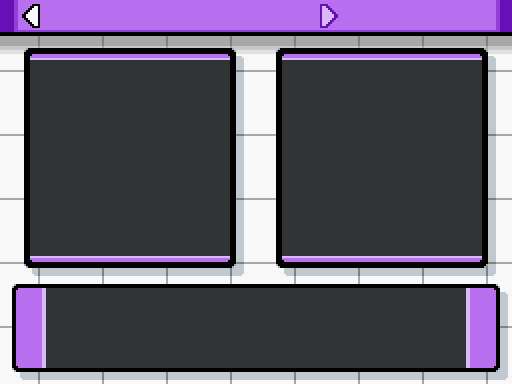
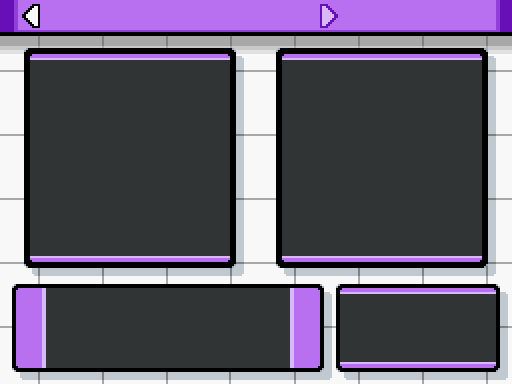
Can toggle viewing shinies on form page in masterdex

Changed region(s): [[0.5625, 0.7188, 0.9688, 1.0], [0.4375, 0.9688, 0.4688, 1.0]]

diff --git a/Plugins/Tectonic MasterDex/PokeDex Entry/PokemonPokedexInfo_Scene.rb b/Plugins/Tectonic MasterDex/PokeDex Entry/PokemonPokedexInfo_Scene.rb
@@ -98,6 +98,7 @@ class PokemonPokedexInfo_Scene
 
         @scroll = -1
         @horizontalScroll = 0
+        @showShinyForms = $PokemonGlobal.dex_forms_shows_shinies || false
         @title = "Undefined"
         pbSetSystemFont(@sprites["overlay"].bitmap)
         pbUpdateDummyPokemon
@@ -125,18 +126,13 @@ class PokemonPokedexInfo_Scene
         species_data = GameData::Species.get_species_form(@species, @form)
         @title = species_data.form_name ? "#{species_data.name} (#{species_data.form_name})" : species_data.name
         @sprites["infosprite"].setSpeciesBitmap(@species, @gender, @form)
-        forceShiny = debugControl
-        @sprites["formfront"].setSpeciesBitmap(@species, @gender, @form, forceShiny) if @sprites["formfront"]
+        @sprites["formfront"].setSpeciesBitmap(@species, @gender, @form, @showShinyForms) if @sprites["formfront"]
         if @sprites["formback"]
-            if forceShiny
-                @sprites["formback"].setSpeciesBitmapHueShifted(@species, @gender, @form, forceShiny)
-            else
-                @sprites["formback"].setSpeciesBitmap(@species, @gender, @form, false, false, true)
-                @sprites["formback"].y = 256
-                @sprites["formback"].y += species_data.back_sprite_y * 2
-            end
+            @sprites["formback"].setSpeciesBitmap(@species, @gender, @form, @showShinyForms, false, true)
+            @sprites["formback"].y = 256
+            @sprites["formback"].y += species_data.back_sprite_y * 2
         end
-        @sprites["formicon"].pbSetParams(@species, @gender, @form) if @sprites["formicon"]
+        @sprites["formicon"].pbSetParams(@species, @gender, @form, @showShinyForms) if @sprites["formicon"]
     end
 
     def pbGetAvailableForms
@@ -205,8 +201,7 @@ sp.form) && !Settings::DEX_SHOWS_ALL_FORMS
         xPos = 240
         # shift x position so that double digit page number does not overlap with the right facing arrow
         xPos -= 14 if @page >= 10
-        drawFormattedTextEx(overlay, xPos, 2, Graphics.width, "<outln2>[#{page}/#{pageTitles.length - 1}]</outln2>", base,
-  shadow, 18)
+        drawFormattedTextEx(overlay, xPos, 2, Graphics.width, "<outln2>[#{page}/#{pageTitles.length - 1}]</outln2>", base, shadow, 18)
         # Draw species name on top right	
         speciesName = GameData::Species.get(@species).name
 		speciesName = "#{speciesName} #{@form + 1}" if @multiple_forms
@@ -1074,10 +1069,18 @@ sp.form) && !Settings::DEX_SHOWS_ALL_FORMS
                 break
             end
         end
+        shinyFormTextLeftOffset = 160
         textpos = [
-            [GameData::Species.get(@species).name, Graphics.width / 2, Graphics.height - 94, 2, base, shadow],
-            [formname, Graphics.width / 2, Graphics.height - 62, 2, base, shadow],
+            [GameData::Species.get(@species).name, Graphics.width / 2 - 68, Graphics.height - 94, 2, base, shadow],
+            [formname, Graphics.width / 2 - 68, Graphics.height - 62, 2, base, shadow],
         ]
+        if @showShinyForms
+            textpos.push([_INTL("SPECIAL/D to"), Graphics.width - shinyFormTextLeftOffset, Graphics.height - 94, 0, base, shadow])
+            textpos.push([_INTL("hide shinies"), Graphics.width - shinyFormTextLeftOffset, Graphics.height - 62, 0, base, shadow])
+        else
+            textpos.push([_INTL("SPECIAL/D to"), Graphics.width - shinyFormTextLeftOffset, Graphics.height - 94, 0, base, shadow])
+            textpos.push([_INTL("show shinies"), Graphics.width - shinyFormTextLeftOffset, Graphics.height - 62, 0, base, shadow])
+        end
         # Draw all text
         pbDrawTextPositions(overlay, textpos)
     end
@@ -1261,8 +1264,7 @@ sp.form) && !Settings::DEX_SHOWS_ALL_FORMS
             coordinateY += 32
 
             # Earliest level accessible
-            drawTextEx(overlay, xLeft, coordinateY, 450, 1, _INTL("Earliest level: #{fSpecies.earliest_available}"), base,
-              shadow)
+            drawTextEx(overlay, xLeft, coordinateY, 450, 1, _INTL("Earliest level: #{fSpecies.earliest_available}"), base, shadow)
             coordinateY += 32
 
             # Speed tier
@@ -1387,7 +1389,7 @@ sp.form) && !Settings::DEX_SHOWS_ALL_FORMS
                     else
                         pbPlayBuzzerSE
                     end
-                elsif @page == 10
+                elsif @page == 10 # Forms
                     if @available.length > 1
                         pbPlayDecisionSE
                         pbChooseForm
@@ -1484,6 +1486,14 @@ sp.form) && !Settings::DEX_SHOWS_ALL_FORMS
                 dorefresh = true if moveToPage(9)
             elsif Input.pressex?(:NUMBER_0)
                 dorefresh = true if moveToPage(10)
+            elsif Input.trigger?(Input::SPECIAL)
+                if @page == 10
+                    pbPlayDecisionSE
+                    @showShinyForms = !@showShinyForms
+                    $PokemonGlobal.dex_forms_shows_shinies = @showShinyForms
+                    pbUpdateDummyPokemon
+                    dorefresh = true
+                end
             elsif Input.press?(Input::ACTION) && debugControl
                 @scroll = -1
                 pbPlayCursorSE

diff --git a/Plugins/Tectonic Other/Globals/GlobalMetadata.rb b/Plugins/Tectonic Other/Globals/GlobalMetadata.rb
@@ -62,6 +62,7 @@ class PokemonGlobalMetadata
     attr_accessor :tarot_amulet_active
     # MasterDex
     attr_accessor :stored_search
+    attr_accessor :dex_forms_shows_shinies
     # Randomizer
     attr_accessor :randomizedData
     attr_accessor :isRandomizer
@@ -134,7 +135,9 @@ class PokemonGlobalMetadata
         @teamHealerMaxUses	  = 1
         @teamHealerCurrentUses= 1
         @tarot_amulet_active  = false
+        # Masterdex
         @stored_search		  = nil
+        @dex_forms_shows_shinies = false
         @omnitutor_active     = false
         @noise_machine_state  = 0
         @exp_multiplier       = 1.0
